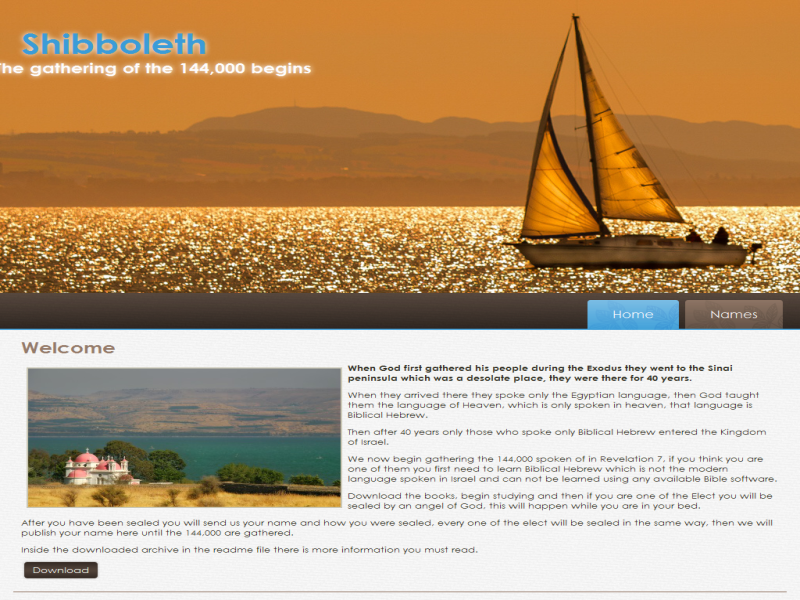
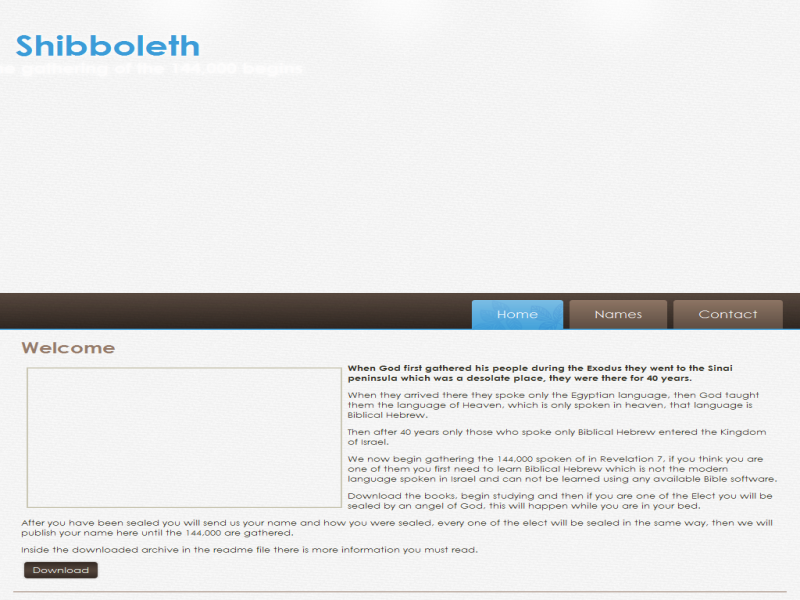
5

diff --git a/contact.html b/contact.html
@@ -1,7 +1,7 @@
 <!DOCTYPE html>
 <html dir="ltr" lang="en-US"><head><!-- Created by Artisteer v4.3.0.60745 -->
     <meta charset="utf-8">
-    <title>List of current elect</title>
+    <title>Contact</title>
     <meta name="viewport" content="initial-scale = 1.0, maximum-scale = 1.0, user-scalable = no, width = device-width">
 
     <!--[if lt IE 9]><script src="https://html5shiv.googlecode.com/svn/trunk/html5.js"></script><![endif]-->
@@ -38,7 +38,7 @@
 </header>
 <nav class="art-nav">
     <div class="art-nav-inner">
-    <ul class="art-hmenu"><li><a href="index.html" class="">Home</a></li><li><a href="names.html" class="active">Names</a></li><li><a href="contact.html">Contact</a></li></ul> 
+    <ul class="art-hmenu"><li><a href="index.html" class="">Home</a></li><li><a href="names.html" class="">Names</a></li><li><a href="contact.html" class="active">Contact</a></li></ul> 
         </div>
     </nav>
 <div class="art-sheet clearfix">
@@ -46,9 +46,9 @@
                 <div class="art-content-layout">
                     <div class="art-content-layout-row">
                         <div class="art-layout-cell art-content"><article class="art-post art-article">
-                                <h2 class="art-postheader">List of current elect</h2>
+                                <h2 class="art-postheader">Contact</h2>
                                                 
-                <div class="art-postcontent art-postcontent-0 clearfix"><p>None yet.</p></div>
+                <div class="art-postcontent art-postcontent-0 clearfix"><p>Shibboleth2015@gmail.com</p></div>
                                 
                 
 

diff --git a/index.html b/index.html
@@ -1,7 +1,7 @@
 <!DOCTYPE html>
 <html dir="ltr" lang="en-US"><head><!-- Created by Artisteer v4.3.0.60745 -->
     <meta charset="utf-8">
-    <title>Shibboleth Bible Software</title>
+    <title>Shibboleth</title>
     <meta name="viewport" content="initial-scale = 1.0, maximum-scale = 1.0, user-scalable = no, width = device-width">
 
     <!--[if lt IE 9]><script src="https://html5shiv.googlecode.com/svn/trunk/html5.js"></script><![endif]-->
@@ -43,7 +43,7 @@
 </header>
 <nav class="art-nav">
     <div class="art-nav-inner">
-    <ul class="art-hmenu"><li><a href="index.html" class="active">Home</a></li><li><a href="names.html">Names</a></li></ul> 
+    <ul class="art-hmenu"><li><a href="index.html" class="active">Home</a></li><li><a href="names.html">Names</a></li><li><a href="contact.html">Contact</a></li></ul> 
         </div>
     </nav>
 <div class="art-sheet clearfix">
